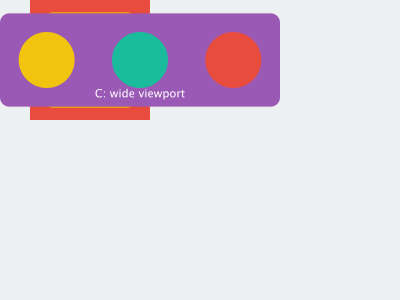
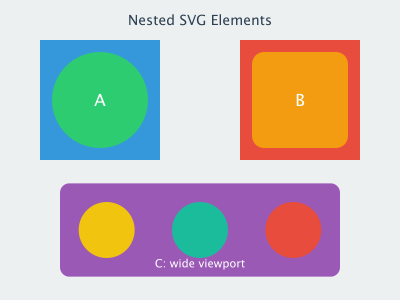
Fix nested SVG positioning and tspan inline text flow
- SvgDrawer: apply x/y translation for nested <svg> elements before
  viewBox transform, so nested SVGs render at their specified positions
- TextDrawer: track cursor x-position across tspan elements so
  consecutive tspans without explicit x/y flow inline after previous
  text. Correctly handle text-anchor (middle/end) across multi-tspan
  text by measuring total children width first.
- Regenerated comparison PNGs for cases 04 and 12

diff --git a/src/main/java/com/jairosvg/TextDrawer.java b/src/main/java/com/jairosvg/TextDrawer.java
@@ -55,7 +55,28 @@ public final class TextDrawer {
 
         String textContent = node.text;
         if (textContent == null || textContent.isEmpty()) {
-            // Process children (tspan, etc.)
+            // Set initial cursor position from this node's x/y
+            String parentX = node.get("x");
+            String parentY = node.get("y");
+            String parentDx = node.get("dx");
+            String parentDy = node.get("dy");
+
+            if (parentX != null) surface.cursorPosition[0] = size(surface, parentX.split("\\s+")[0], "x");
+            if (parentY != null) surface.cursorPosition[1] = size(surface, parentY.split("\\s+")[0], "y");
+            if (parentDx != null) surface.cursorPosition[0] += size(surface, parentDx.split("\\s+")[0], "x");
+            if (parentDy != null) surface.cursorPosition[1] += size(surface, parentDy.split("\\s+")[0], "y");
+
+            // Adjust cursor for text-anchor using total width of all children
+            String textAnchor = node.get("text-anchor");
+            if (textAnchor != null && ("middle".equals(textAnchor) || "end".equals(textAnchor))) {
+                double totalWidth = measureChildrenWidth(surface, node, frc);
+                if ("middle".equals(textAnchor)) {
+                    surface.cursorPosition[0] -= totalWidth / 2;
+                } else {
+                    surface.cursorPosition[0] -= totalWidth;
+                }
+            }
+
             for (Node child : node.children) {
                 text(surface, child, drawAsText);
             }
@@ -78,9 +99,9 @@ public final class TextDrawer {
         if (dxStr != null) startX += size(surface, dxStr.split("\\s+")[0], "x");
         if (dyStr != null) startY += size(surface, dyStr.split("\\s+")[0], "y");
 
-        // Text anchor alignment
+        // Text anchor alignment (only when node has its own x position)
         String textAnchor = node.get("text-anchor");
-        if (textAnchor != null) {
+        if (textAnchor != null && xStr != null) {
             Rectangle2D bounds = font.getStringBounds(textContent, frc);
             if ("middle".equals(textAnchor)) {
                 startX -= bounds.getWidth() / 2;
@@ -124,5 +145,44 @@ public final class TextDrawer {
         }
 
         surface.cursorPosition[1] = startY;
+    }
+
+    /** Measure total text width of all children for text-anchor calculation. */
+    private static double measureChildrenWidth(Surface surface, Node parent, FontRenderContext frc) {
+        double totalWidth = 0;
+        for (Node child : parent.children) {
+            if (child.text != null && !child.text.isEmpty()) {
+                totalWidth += resolveFont(surface, child).getStringBounds(child.text, frc).getWidth();
+            }
+            if (child.children != null && !child.children.isEmpty()) {
+                totalWidth += measureChildrenWidth(surface, child, frc);
+            }
+        }
+        return totalWidth;
+    }
+
+    /** Resolve the Font for a given node based on its font attributes. */
+    private static Font resolveFont(Surface surface, Node node) {
+        String fontFamily = node.get("font-family", "SansSerif");
+        fontFamily = fontFamily.split(",")[0].strip().replace("'", "").replace("\"", "");
+        fontFamily = switch (fontFamily.toLowerCase()) {
+            case "sans-serif" -> "SansSerif";
+            case "serif" -> "Serif";
+            case "monospace" -> "Monospaced";
+            default -> fontFamily;
+        };
+        int fontStyle = Font.PLAIN;
+        String styleStr = node.get("font-style", "normal");
+        if ("italic".equals(styleStr) || "oblique".equals(styleStr)) {
+            fontStyle |= Font.ITALIC;
+        }
+        String weightStr = node.get("font-weight", "normal");
+        if ("bold".equals(weightStr) || "bolder".equals(weightStr)) {
+            fontStyle |= Font.BOLD;
+        } else if (weightStr.matches("\\d+") && Integer.parseInt(weightStr) >= 550) {
+            fontStyle |= Font.BOLD;
+        }
+        Font font = new Font(fontFamily, fontStyle, 1);
+        return font.deriveFont((float) surface.fontSize);
     }
 }

diff --git a/src/main/java/com/jairosvg/SvgDrawer.java b/src/main/java/com/jairosvg/SvgDrawer.java
@@ -13,6 +13,9 @@ public final class SvgDrawer {
     /** Draw a svg node (nested SVG). */
     public static void svg(Surface surface, Node node) {
         if (node.parent != null) {
+            double x = size(surface, node.get("x", "0"), "x");
+            double y = size(surface, node.get("y", "0"), "y");
+            surface.context.translate(x, y);
             double[] nf = nodeFormat(surface, node);
             double width = nf[0], height = nf[1];
             double[] viewbox = getViewbox(nf);
